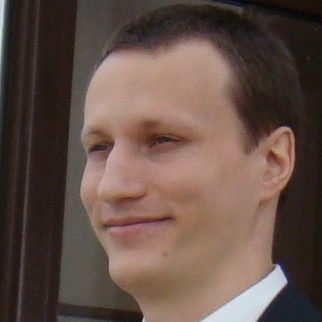
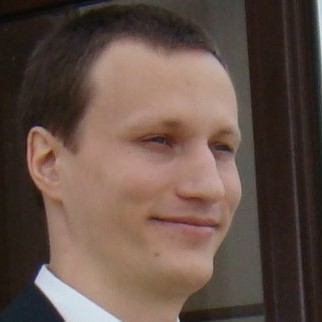
Layout change

diff --git a/src/assets/styles/components/_vcard.scss b/src/assets/styles/components/_vcard.scss
@@ -67,13 +67,13 @@
             &__avatar {
                 position: fixed;
                 top: calc(#{$spacing-y} + 1rem);
-                right: 75%;
-                transform: translateX(25%);
+                right: 85%;
+                transform: translateX(15%);
                 transition: transform 0.2s ease;
                 margin: 0;
 
                 .js-scrolled & {
-                    transform: translateX(25%) scale(0.75);
+                    transform: translateX(15%) scale(0.85);
                 }
             }
         }

diff --git a/src/assets/styles/base/_layout.scss b/src/assets/styles/base/_layout.scss
@@ -29,7 +29,7 @@ body {
 
     @include mq(lg) {
         display: grid;
-        grid-template-columns: 25% 1fr;
+        grid-template-columns: 15% 1fr;
         grid-template-rows: auto 1fr auto;
         grid-template-areas:
             'sidebar header'

diff --git a/src/assets/styles/components/_actions.scss b/src/assets/styles/components/_actions.scss
@@ -24,7 +24,7 @@
         flex-direction: column;
         position: fixed;
         top: 220px;
-        right: 75%;
+        right: 85%;
         padding: 0 0.5rem;
         text-align: right;
 

diff --git a/src/entries/work/2008-engineer.md b/src/entries/work/2008-engineer.md
@@ -18,14 +18,25 @@ Data protection/management software, compute and storage, networking, various OS
 ***Description***
 
 Started as junior Wintel Engineer and gradually promoted to Principal Systems Engineer with a successful track of design, implementation and support projects for many European and several Russian customers:
-•	The technical lead of engineers for virtualization, storage and data protection.
-•	Solving complex problems in customer environments.
-•	Building reporting systems for capacity and performance of technical solutions.
-•	Constant improvement of the provided services (services), innovation activities.
-•	Participation in the work of the sales team: evaluation of labor costs(tenders for supporting the customers' environments).
-•	Participation in the creation of a catalog of services and a detailed description of services for drafting contracts.
-•	Administration of virtualization solutions (VMWare, Hyper-V).
-•	Administration of FC / FCoE SAN (Cisco, Brocade) and FC-FC routing.
-•	Storage administration NetApp, Fujitsu, HP, EMC.
-•	Data protection administration Netbackup, Commvault.
+
+•	The technical lead of engineers for virtualization, storage and data protection;
+
+•	Solving complex problems in customer environments;
+
+•	Building reporting systems for capacity and performance of technical solutions;
+
+•	Constant improvement of the provided services (services), innovation activities;
+
+•	Participation in the work of the sales team: evaluation of labor costs(tenders for supporting the customers' environments);
+
+•	Participation in the creation of a catalog of services and a detailed description of services for drafting contracts;
+
+•	Administration of virtualization solutions (VMWare, Hyper-V);
+
+•	Administration of FC / FCoE SAN (Cisco, Brocade) and FC-FC routing;
+
+•	Storage administration NetApp, Fujitsu, HP, EMC;
+
+•	Data protection administration Netbackup, Commvault;
+
 •	Continuously consult and train colleagues.

diff --git a/src/entries/work/2014-pre-sales-arch copy.md b/src/entries/work/2014-pre-sales-arch copy.md
@@ -8,9 +8,11 @@ end:
 ---
 
 ***Technologies***
+
 Disaster recovery, cloud and virtualization technologies, storage and data protection/archiving/compliance, various OS platforms;
 
 ***Description***
+
 Work in tight cooperation with pre-sales and sales to find out business and IT needs, provide solution consultancy, technical guidance, risk and cost estimations etc to close new deals and to ensure contract renewals.
 
 Marketing and sales materials development (cost models, service descriptions, battle cards, brochures etc)
@@ -38,7 +40,11 @@ Positive feedback from customer, Fujitsu accounts and sales team;
 Notable pre-sales projects:
 
 •	World-wide tyre manufacturer (2 renewals, 50+ FTE) and Car manufacturer retail in Europe (new offer submitted, 30+ FTE) contracts renewal, helping Benelux bid team, taking part in contract alignment with new technical solution sold and old solution transformation/migration plan, cost estimations, risk estimations;
+
 •	World-wide luxury product manufacturer (1 renewal) approx. 80 FTE. Transformation and BAU estimations in storage and data protection areas (SD, SoW), contributing to RAID log, risk mitigation analysis;
+
 •	World-wide luxury wearables manufacturer transformation and BAU estimations in storage and data protection areas (SD, SoW) based on scattered and incomplete information, contributing to RAID log, risk mitigation analysis;
+
 •	Russian Post (100+ FTE) transformation and BAU estimations in server platform, virtualization, storage and data protection areas (SD, SoW), contributing to RAID log, risk mitigation analysis;
+
 •	World-wide drug generics manufacturer, Russian branch, datacenter consultancy, contributing to definition of customers’ overall IT architecture;

diff --git a/src/entries/work/2019-archcloud.md b/src/entries/work/2019-archcloud.md
@@ -24,10 +24,14 @@ Developing cloud architectures and integration solutions.
 Notable projects:
 
 •	Lead Architect, migration to Azure cloud (execution of discovery, assessment, planning, architecture and implementation, planning and supervision of migration);
-•	Cloud Adoption and transformation architect (customer transformation and migration advisory methodology development, Cloud Adoption Framework development based on internal and vendor ones (AWS, Azure, Google), migration blueprint quality review)
+
+•	Cloud Adoption and transformation architect (customer transformation and migration advisory methodology development, Cloud Adoption Framework development based on internal and vendor ones (AWS, Azure, Google), migration blueprint quality review);
+
 •	Cloud Management Platform reference architecture development and market research;
+
 •	OpenStack cloud Backup-as-a-Service data protection solution;
 
 Notable integration projects:
-•	Azure Monitor to ServiceNow custom alerting integration using Azure Logic Apps, REST APIs etc
+•	Azure Monitor to ServiceNow custom alerting integration using Azure Logic Apps, REST APIs etc;
+
 •	vRealize to ServiceNow alerting integration (using incoming and outgoing Web Services (REST APIs), ServiceNow Business Rules and Scheduled Jobs, custom integration watchdog mechanism);

diff --git a/src/entries/work/2014-arch.md b/src/entries/work/2014-arch.md
@@ -32,12 +32,21 @@ Provide technical leadership, coordination and advice on complex problem trouble
 Notable achievements:
 
 •	Infrastructure tower lead for 2 contract renewals (new solution designs, migration leadership etc);
+
 •	Disaster Recovery Plan development from scratch, lead technical coordination during several successful DR tests;
+
 •	Datacenter cost optimization (15%);
+
 •	Software licensing optimizations (30%);
+
 •	New design documentation standard alignment with Fujitsu standards, templates’ tailoring;
+
 •	Migration to new right-sized storage solution (as a result old oversized (so underused) solution replaced with 3 times cheaper one (TCO) solution);
+
 •	EOL data protection solution upgrade to new hardware with optimized configuration (~1 rack replaced with 3 blades in each datacenter);
+
 •	Retail application cross-DC migration with particular components’ redesign (~100 OS instances);
-•	Supply chain planning application infrastructure design and implementation in Fujitsu DCs (20+ heavy OS instances);
+
+•	Supply chain planning application infrastructure design and implementation in own DCs (20+ heavy OS instances);
+
 •	Dozens of smaller consulting and design projects successfully accepted by customers;

diff --git a/src/entries/work/2016-arch-baas.md b/src/entries/work/2016-arch-baas.md
@@ -18,9 +18,15 @@ AWS/Azure cloud IaaS, Commvault data management software, Fujitsu compute and st
 ***Description***
 
 Project highlights:
+
 •	No single direct customer present (due to cloud nature) so requirements were collected from industry standards and future vision, then evaluated with potential customers and specified based on their feedback;
+
 •	Customer requirements management and traceability control within the solution; 
+
 •	Multi-tenant data protection and management environment;
+
 •	Development (Architecture Overview Document, HLDs/LLDs), implementation and consulting on data protection and management solution;
+
 •	Sales, marketing and service documentation development;
+
 •	Roadmap development;
